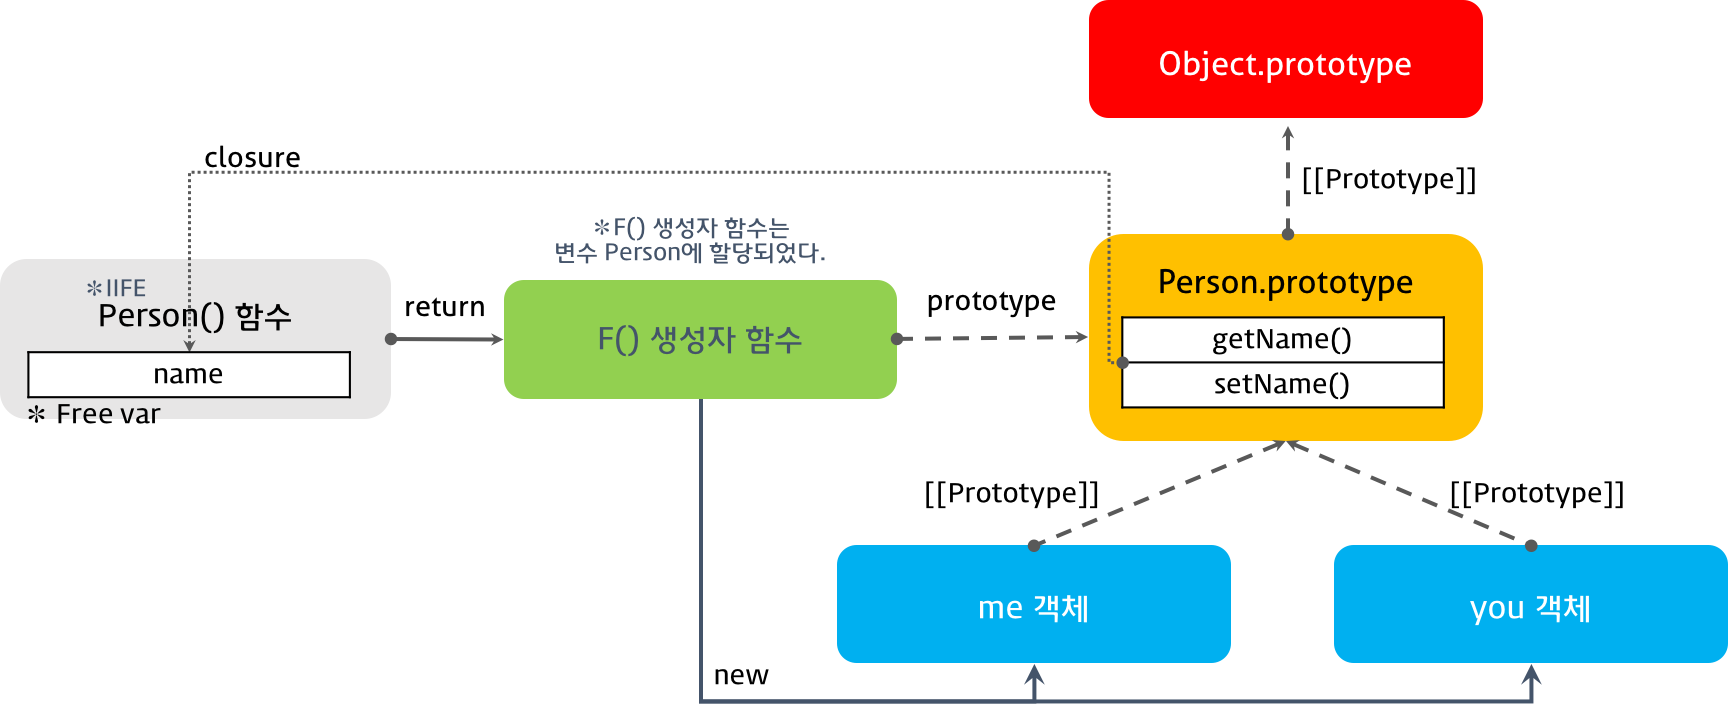
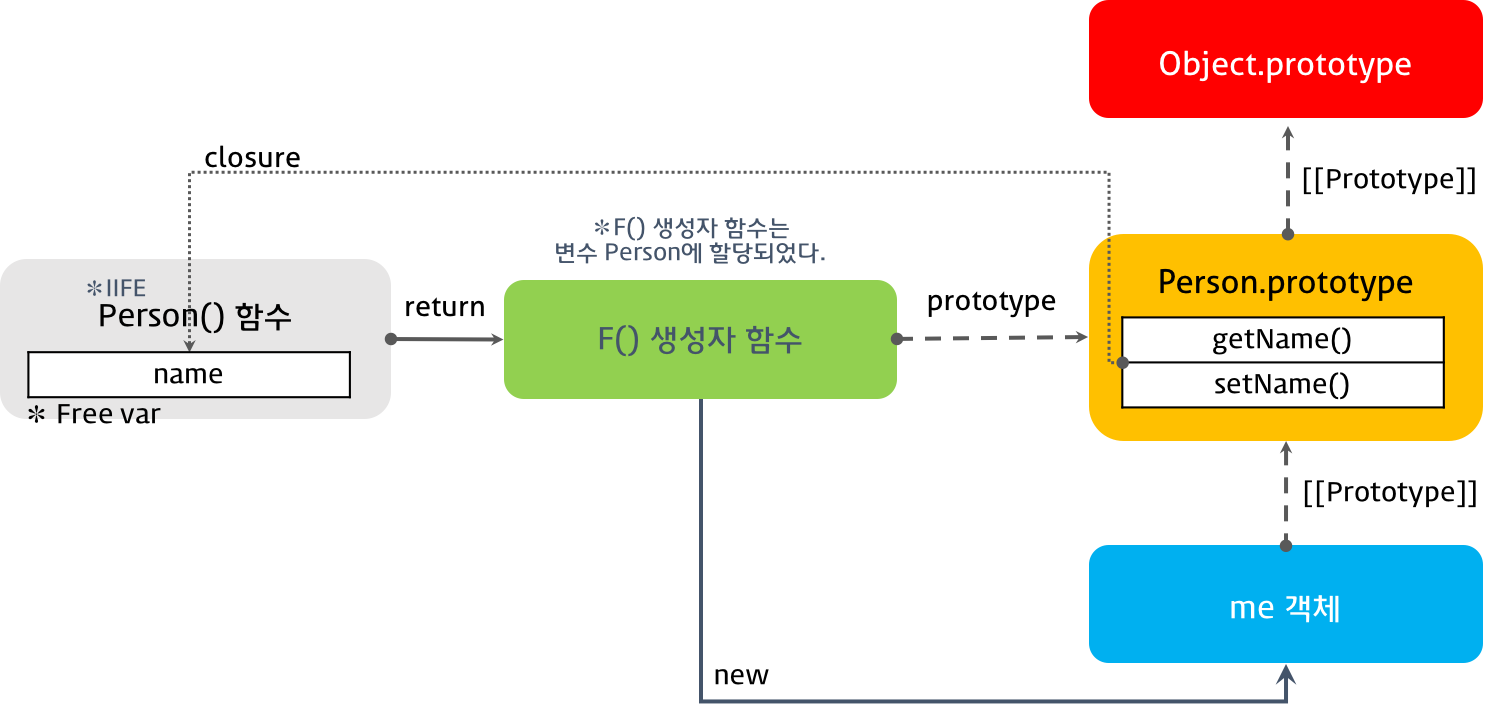
updated

diff --git a/_posts/2016-01-23-Javascript-Object-Oriented-Programming.md b/_posts/2016-01-23-Javascript-Object-Oriented-Programming.md
@@ -664,7 +664,7 @@ console.log(me.__proto__ === Object.prototype); // true: 객체 리터럴 방식
 ![module pattern](/img/module_pattern_1.png)
 {: style="max-width:500px; margin:10px auto;"}
 
-반환된 객체가 함수 person의 프로토타입에 접근할 수 없다는 것은 person을 부모 객체로 상속할 수 없다는 것을 의미한다. 따라서 함수 person가 여러개의 객체를 반환할 경우 반환된 객체는 프로토타입 체인에 의해 프로토타입 객체의 메서드를 참조할 수 없으므로 메서드 setName, getName를 담은 객체가 중복되어 생성된다.
+반환된 객체가 함수 person의 프로토타입에 접근할 수 없다는 것은 person을 부모 객체로 상속할 수 없다는 것을 의미한다. <!-- 따라서 함수 person가 여러개의 객체를 반환할 경우 반환된 객체는 프로토타입 체인에 의해 프로토타입 객체의 메서드를 참조할 수 없으므로 메서드 setName, getName를 담은 객체가 중복되어 생성된다. -->
 
 이 문제를 해결하기 위해서는 객체를 반환하는 것이 아닌 함수를 반환해야 한다.
 
@@ -707,9 +707,9 @@ console.log(you.getName());
 ![module pattern](/img/module_pattern_2.png)
 {: style="max-width:730px; margin:10px auto;"}
 
-IIFE(즉시호출함수표현식: Immediately Invoke Function Expression)가 동작하여 변수 Person에 F 생성자 함수가 할당되었다. 결국 new Person()과 new F()는 같은 의미가 된다. Person.prototype의 메서드 getName, setName은 클로저로서 private 변수(자유 변수)에 접근할 수 있다.
+<!-- IIFE(즉시호출함수표현식: Immediately Invoke Function Expression)가 동작하여 변수 Person에 F 생성자 함수가 할당되었다. 결국 new Person()과 new F()는 같은 의미가 된다. Person.prototype의 메서드 getName, setName은 클로저로서 private 변수(자유 변수)에 접근할 수 있다.
 
-그런데 위 예제도 문제가 있다. 모듈 패턴이 IIFE에 의해 반환한 생성자 함수는 유일한 함수 객체이다. IIFE은 단 한번만 실행되기 때문인데 그 결과 이 생성자 함수로 여러개의 객체를 생성했을 때 각 객체는 자유변수를 공유하게 된다.
+그런데 위 예제도 문제가 있다. 모듈 패턴이 IIFE에 의해 반환한 생성자 함수는 유일한 함수 객체(Singleton)이다. IIFE은 단 한번만 실행되기 때문인데 그 결과 이 생성자 함수로 여러개의 객체를 생성했을 때 각 객체는 자유변수를 공유하게 된다. 즉, 상기 패턴은 단일 객체 생성에 적합하며 복수의 객체 생성에 적합하지 않다.
 
 ```javascript
 me.setName('Lee')
@@ -721,7 +721,19 @@ console.log(you.getName()); // 'Park'
 console.log(me.getName());  // 'Park'
 ```
 
-다른 방법을 찾아보자.
+복수의 객체를 지원하기 위해서 다른 방법을 찾아보자. -->
+
+<!--
+NOTE:
+아래 예제는 올바르지 않다...
+return new F()는 새로운 객체를 생성하여 반환하는데 여러개의 객체를 생성할 경우 각 객체의 __proto__은 별도 존재하게 된다.
+
+console.log(me.__proto__ === you.__proto__); // false
+
+캡슐화와 상속은 별개 개념이므로 캡슐화로 만들어진 객체의 상속은 일반 상속 방식을 따르면 될 것이다..
+2016.5.6 ungmo2 wrote
+ -->
+<!--
 
 ```javascript
 var Person = function(arg) {
@@ -744,8 +756,8 @@ var Person = function(arg) {
   return new F(arg);
 };
 
-var me = new Person('Lee');
-var you = new Person('Kim');
+var me  = Person('Lee'); /* or var me = new person('Lee'); */
+var you = Person('Kim');
 
 console.log((Person.prototype === me.__proto__) && (Person.prototype === you.__proto__));
 
@@ -763,4 +775,6 @@ console.log(you.getName());
 ![module pattern](/img/module_pattern_3.png)
 {: style="max-width:730px; margin:10px auto;"}
 
-캡슐화를 구현하는 방법은 다양하다. 다양한 방법을 잘 분석하고 각각의 장단점을 파악하는 것이 보다 효율적인 코드를 작성하는데 중요하다. 
+-->
+
+캡슐화를 구현하는 방법은 다양하다. 다양한 방법을 잘 분석하고 각각의 장단점을 파악하는 것이 보다 효율적인 코드를 작성하는데 중요하다.
